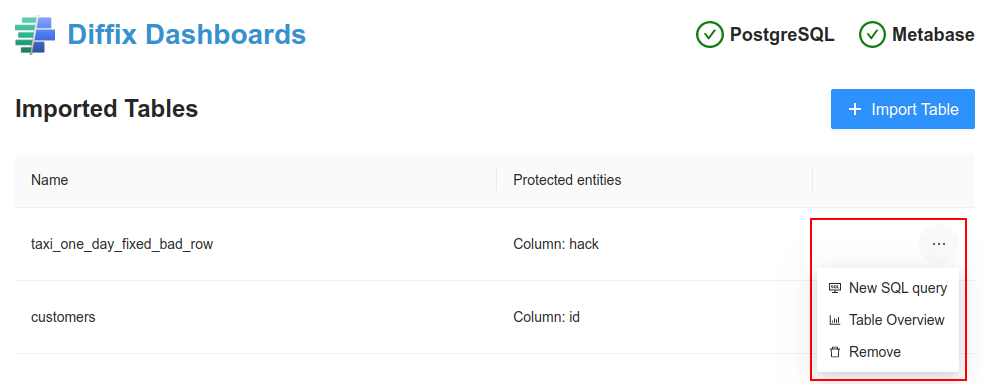
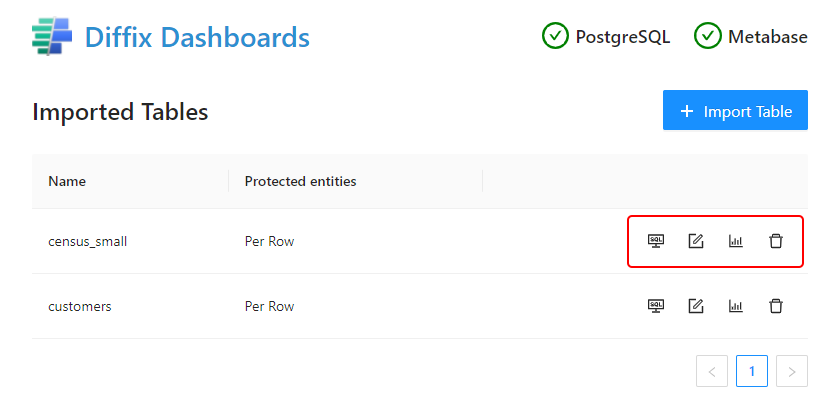
Update operation doc text and images

diff --git a/src/main.ts b/src/main.ts
@@ -198,7 +198,14 @@ function registerProtocols() {
 
 // Main window
 
-const ALLOWED_DOMAINS = ['https://open-diffix.org', 'https://github.com', 'https://arxiv.org', 'mailto:'];
+const ALLOWED_DOMAINS = [
+  'https://open-diffix.org',
+  'https://github.com',
+  'https://arxiv.org',
+  'https://www.postgresql.org',
+  'https://www.metabase.com',
+  'mailto:',
+];
 
 function createWindow() {
   const mainWindow = new BrowserWindow({

diff --git a/docs/en/operation.md b/docs/en/operation.md
@@ -1,6 +1,6 @@
 # Operation
 
-> To report feature requests or problem, please contact us at [feedback@open-diffix.org](mailto:feedback@open-diffix.org).
+> To report feature requests or problems, please contact us at [feedback@open-diffix.org](mailto:feedback@open-diffix.org).
 
 **Diffix Dashboards'** purpose is to allow anonymized analysis of data using Metabase, an easy to use Business Intelligence (BI) tool.
 
@@ -15,16 +15,16 @@ a local [Metabase](https://www.metabase.com/) engine. Both services are required
 Initial startup of PostgreSQL and Metabase might take a while, but is faster on subsequent starts of **Diffix Dashboards**.
 Please ensure that **Diffix Dashboards** displays two green checkmarks on its main `Admin Panel` tab:
 
-![](images/services.png#480)
+![](images/services.png#560)
 
 If you experience something different, please refer to the section [Troubleshooting](#troubleshooting) below for guidance.
 
 ## Data Import
 
-In order to anonymize and explore your data in **Diffix Dashboards** you need to import it first. The process to import a CSV file into
+In order to anonymize and explore your data in **Diffix Dashboards**, you need to import it first. The process to import a CSV file into
 **Diffix Dashboards** is straightforward. Request a new import on the `Admin Panel` tab and follow instructions in the left-hand side bar.
 
-![](images/import.png#480)
+![](images/import.png#560)
 
 If you have several files to import, you can work on them in parallel by opening multiple import tabs.
 
@@ -34,42 +34,79 @@ When you click on the icon, it will cause the respective Metabase tab to reload 
 
 ## Using Metabase
 
-In order to start using Metabase and analyze the imported data, use one of the options in the dropdown menu near the
-table name.
+To start using Metabase and analyze the imported data, click on one of the buttons in the list of imported tables.
 
-![](images/analyze_options.png#480)
+![](images/analyze_options.png#560)
 
-Select `New SQL query` to start writing a SQL query. Select `Example SQL queries` to see some sample queries and charts
-that are automatically built for you (this might take a while on first run). You can use Metabase to modify and extend
-the examples.
+Clicking on `New SQL query` opens a new Metabase tab to write SQL queries with anonymized results.
 
-If you're already familiar with Metabase, you will find it works just like regular Metabase you would open in a web
+![](images/button_sql_query.png)
+
+`Example SQL queries` opens a Metabase tab with an automatically generated dashboard that contains example queries and charts.
+You can use Metabase to modify and extend the examples. Loading examples might take a while for the first time they are opened.
+
+![](images/button_example_queries.png)
+
+If you are already familiar with Metabase, you will find it works just like regular Metabase you would open in a web
 browser tab, except for a few notable differences:
 
-**No login** - **Diffix Dashboards** arranges a Metabase session for you, so you don't have to register or login.
+**No login** - **Diffix Dashboards** arranges a Metabase session for you, so you don't have to register or log in.
 
 **Local data** - all the data and dashboards are local and cannot be collaborated on remotely.
 
 **Limitations of automatic data exploration tools** - **Diffix Dashboards** operates using **Diffix Fir** anonymization
 (see [Anonymization](anonymization.md) for more details), and because of that it limits the SQL features available to
-the user. When exploring data via the `Anonymized access` data source you might stumble upon functions returning errors,
+the user. When exploring data via the `Anonymized access` data source, you might stumble upon functions returning errors
 because **Diffix Fir** treats them as non-privacy preserving and blocks them.
 
-In case you stumble upon a SQL feature blocked by **Diffix Fir** you should see an error message providing a hint as to
+In case you stumble upon a SQL feature blocked by **Diffix Fir**, you should see an error message providing a hint as to
 what is wrong. In the example below we have tried to `SELECT` the protected entity ID directly.
 
 ![](images/protected_entity_error.png#480)
 
-If you find anything blocking you, please contact us at [feedback@open-diffix.org](mailto:feedback@open-diffix.org), we
-will be happy to discuss your use case and help.
+If you have difficulties writing SQL by hand, the [Query Builder](#query-builder) offers a friendly interface to assist you in creating queries.
+If anything else is blocking you, please contact us at [feedback@open-diffix.org](mailto:feedback@open-diffix.org),
+we will be happy to discuss your use case and help.
 
 Use `Direct access` instead of `Anonymized access` data source to bypass anonymization completely. You have this option
 if you use the `+ New` button within Metabase to start building a SQL query.
 
-![](images/sql_query.png#480)
+![](images/sql_query.png#560)
 
 **CAUTION**: All the questions, SQL queries and dashboards using `Direct access` as data source will **not be
 anonymous**.
+
+## Query Builder
+
+The Query Builder tab allows you to build SQL queries by visually selecting the desired columns and aggregates.
+
+![](images/query_builder.png)
+
+To start building a query, click on the `Open in Query Builder` button for the desired table in the list of imported tables.
+
+![](images/button_query_builder.png)
+
+**Selecting columns and aggregates**
+
+Use the dropdowns on the left side to choose what data and aggregates the query includes.
+
+- **From table**: Table to select data from. Initially set to the table that was clicked when opening the tab.
+- **Select columns**: Which columns to group by in the result. Depending on the column type,
+expanding the chevron near the column name opens generalization options.
+- **Aggregate**: Which summary functions to run on result groups.
+- **Filter by**: Sets pre-anonymization filters in the form of `column = value`.
+  Only rows that match ***all*** filters will be processed further.
+
+To the right of list items, there are up and down arrows to reorder them. The `X` button removes an item from the query.
+
+**Query Preview**
+
+The right side of the page shows the query preview and buttons to export the query.
+Clicking on `Open in Metabase` will open a new Metabase tab with the query box pre-populated.
+`Copy to Clipboard` copies the query text to the clipboard.
+
+If `Wrap in subquery` is checked, the query will add a placeholder wrapper query. This allows you to post-process the anonymized results.
+Because the upper query runs after sensitive data has been anonymized, there are no restrictions and any SQL feature may be used.
 
 ## Troubleshooting
 

diff --git a/LICENSE.md b/LICENSE.md
@@ -110,7 +110,7 @@ under an Open Source License, as stated in this License.
 
 **The PostgreSQL License**
 
-Copyright (c) **2022, Max Planck Gesellschaft (MPG)**
+Copyright (c) **2023, Max Planck Gesellschaft (MPG)**
 
 Permission to use, copy, modify, and distribute this software and its documentation for any purpose, without fee, and
 without a written agreement is hereby granted, provided that the above copyright notice and this paragraph and the
